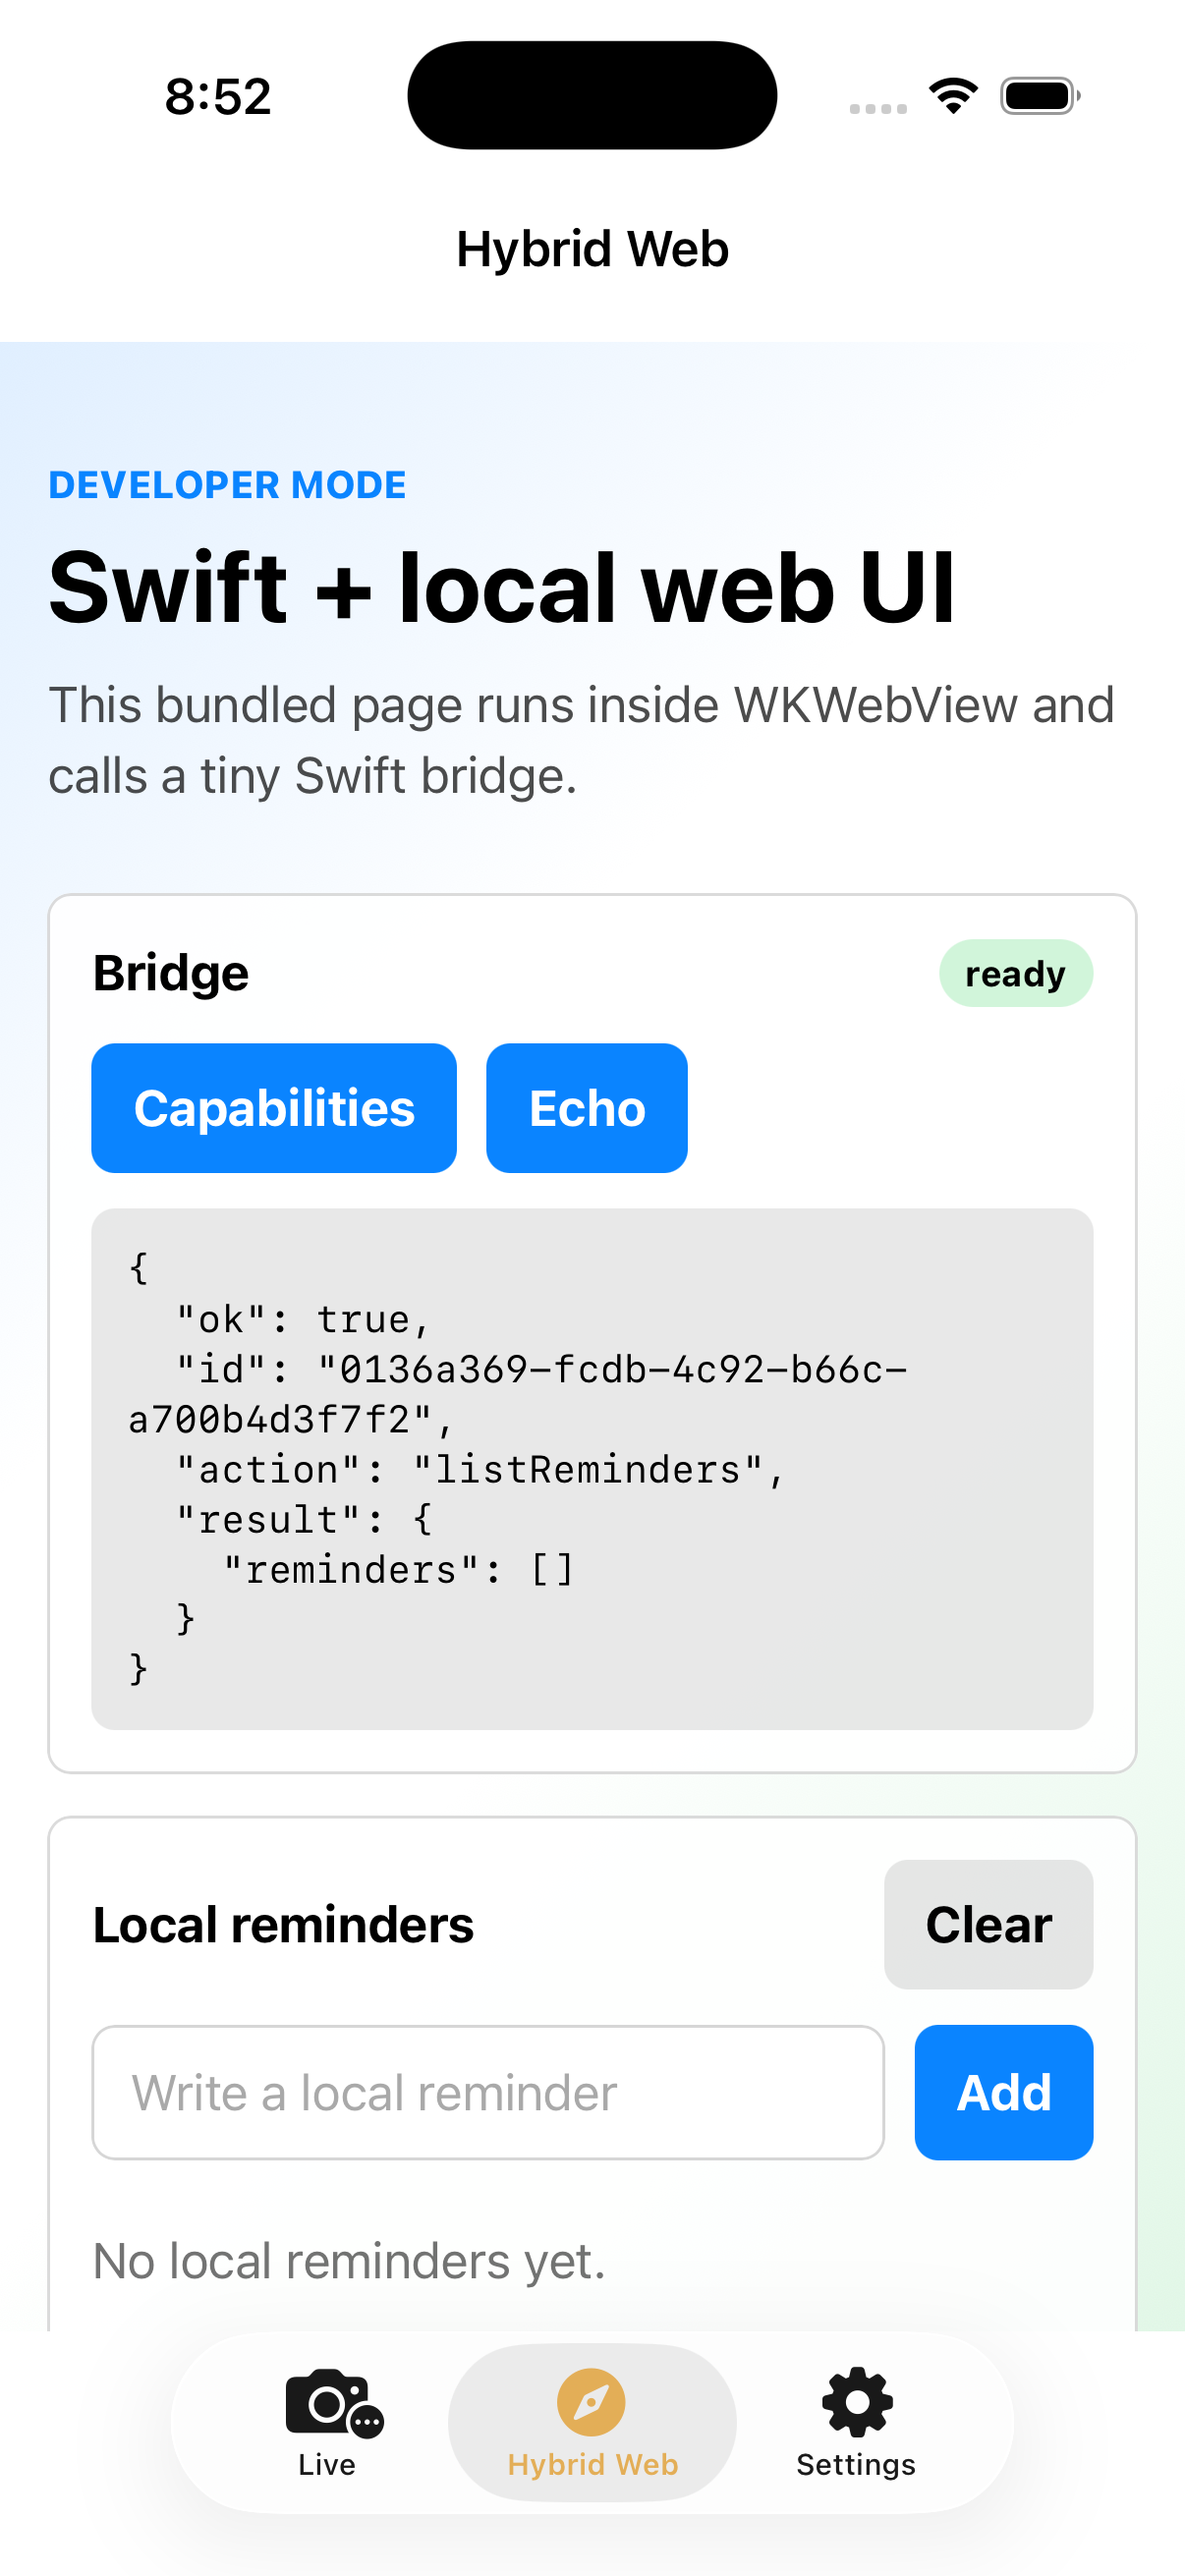
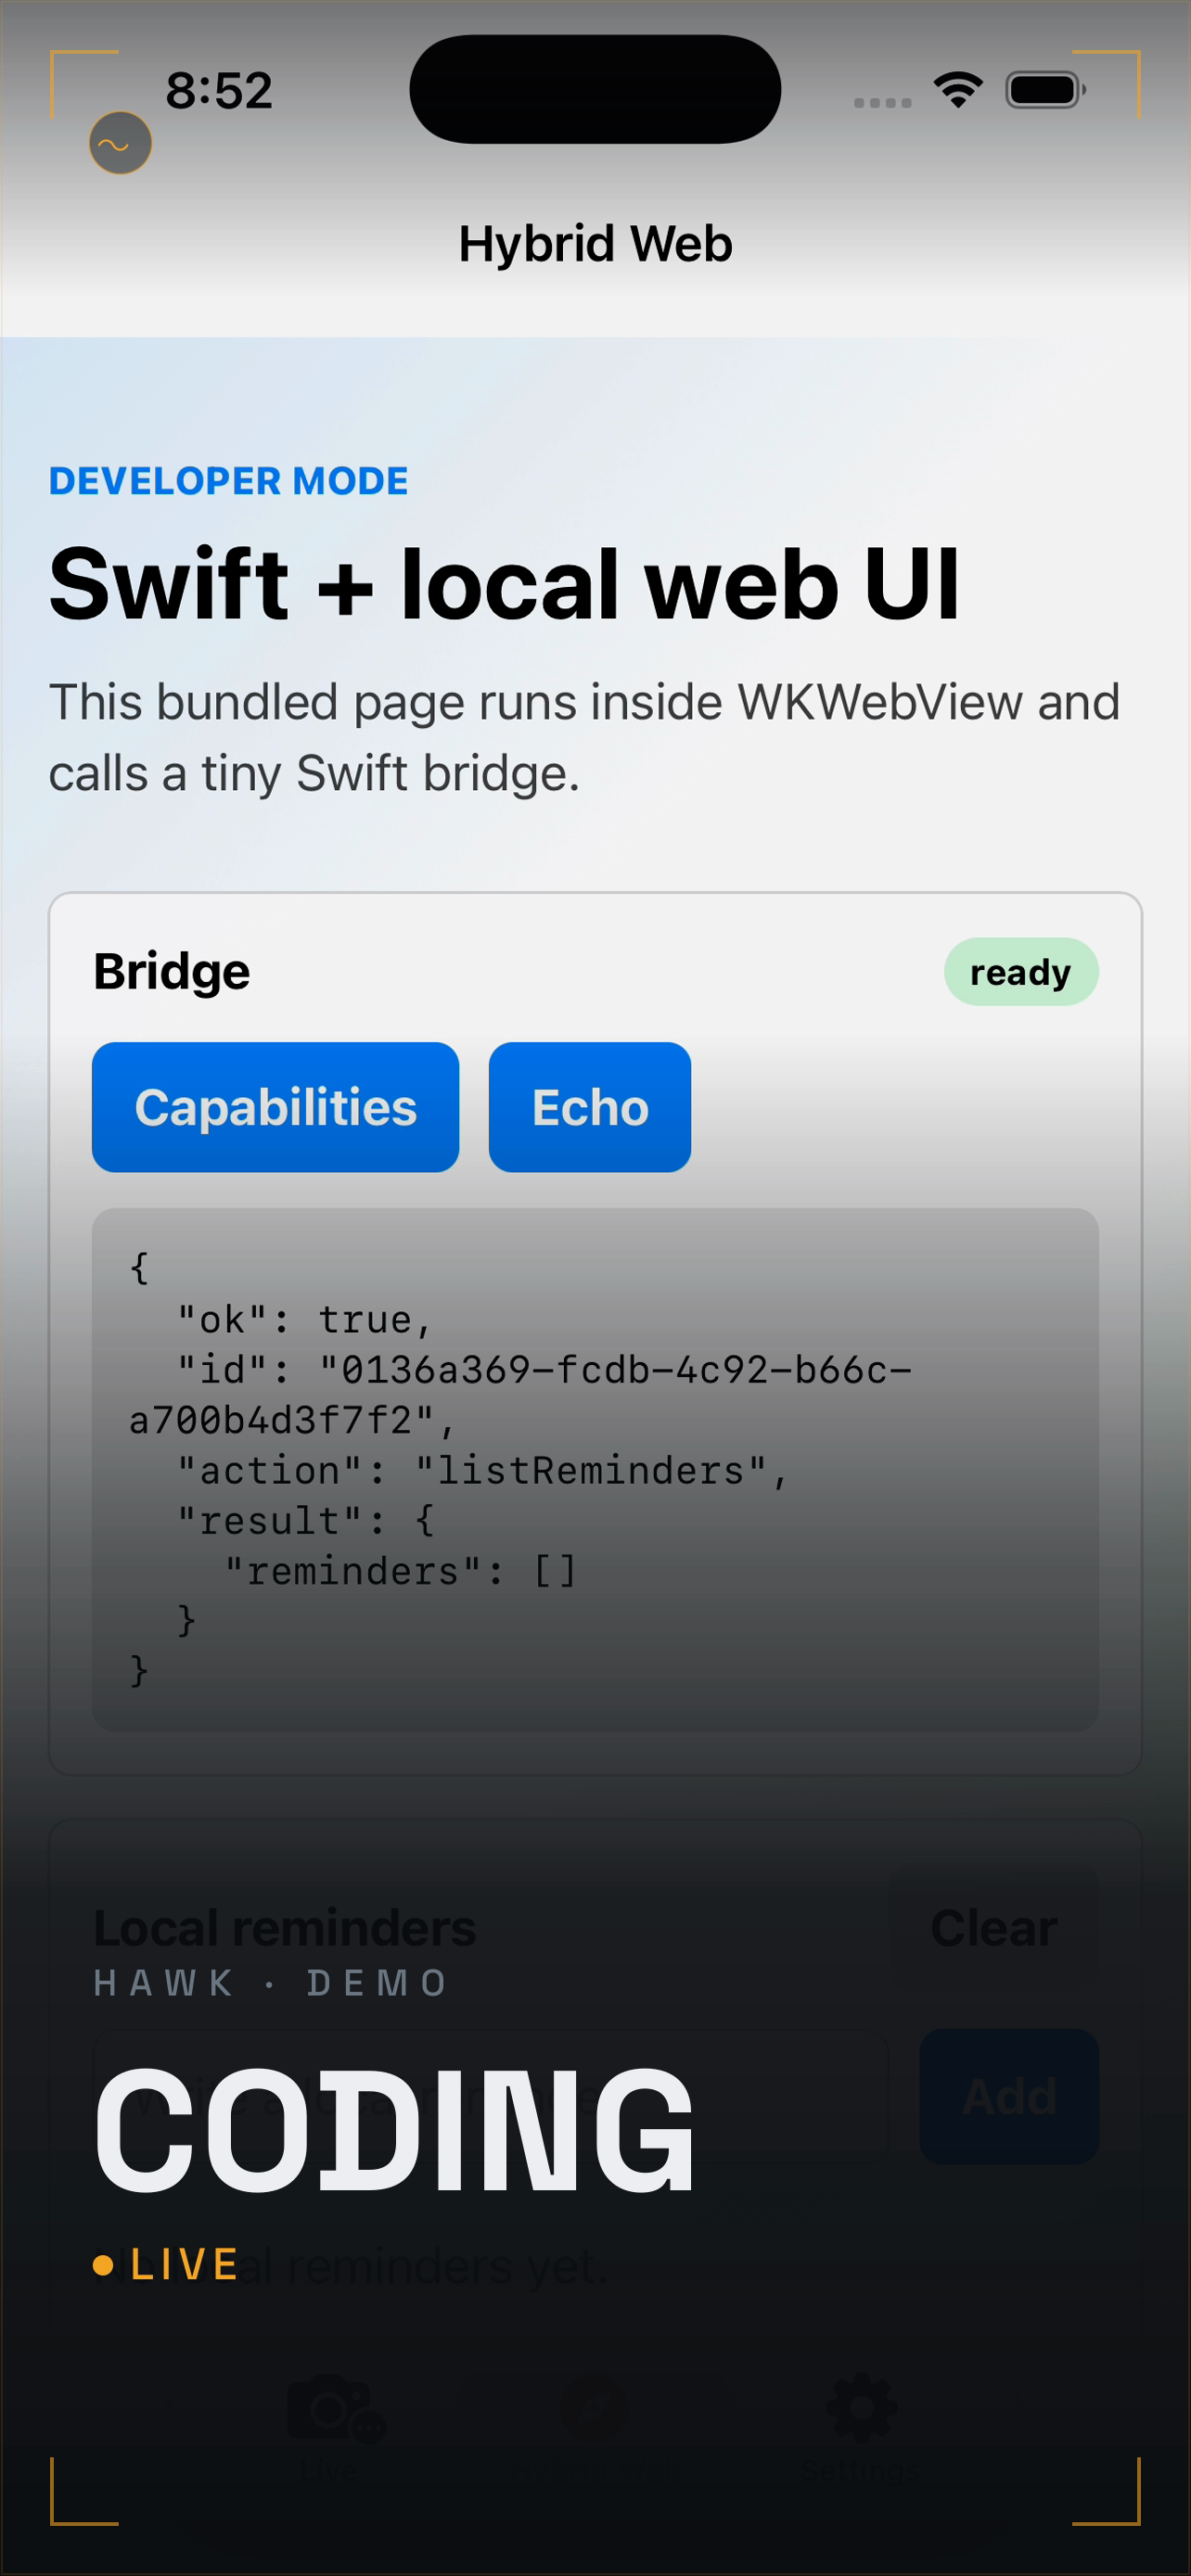
feat(website): add demo media assets
Add the RunPod-deployed demo posters and recordings so the website media referenced by index.html is tracked in GitHub.

Validation:
- verified every demo media reference in website/index.html exists under website/assets

diff --git a/website/README.md b/website/README.md
@@ -8,7 +8,7 @@ A single self-contained marketing/landing page for **Hawk**, the ambient AI agen
 ```
 website/
 ├── index.html          # the entire site (HTML + inline CSS + vanilla JS)
-├── assets/             # owl app icon + the Coding-demo screen recording
+├── assets/             # app icon, demo posters, and demo recordings
 ├── deploy_modal.py     # serve the static site on Modal
 └── preview/            # per-section screenshots (PR review aids)
 ```
@@ -20,13 +20,6 @@ cd website && python3 -m http.server 8011
 # open http://localhost:8011
 ```
 
-## Production routing
-
-- `www.hawky.live` serves this public homepage.
-- `hawky.live` redirects to `www.hawky.live`.
-- `app.hawky.live` serves the authenticated Hawk app.
-- `admin.hawky.live` serves the admin portal.
-
 ## Deploy (Modal)
 
 ```bash
@@ -37,8 +30,7 @@ cd website && modal deploy deploy_modal.py
 ## Notes
 
 - Brand name `Hawk` is kept easy to swap (reserved name, may change).
-- Placeholders pending real values: GitHub/citation URL (`github.com/hawk-agent/hawk`)
-  and install URL (`hawk.sh`). The public iOS URL is `https://ios.hawky.live/`;
-  update its redirect target from the deployment repo when the TestFlight invite changes.
-- Five of the six demo cells are styled placeholders (each has a `data-demo` hook);
-  the Coding cell plays a real recording. Drop clips in to light up the rest.
+- Public GitHub/citation links should point at `github.com/hao-ai-lab/hawky`.
+- The install URL and TestFlight invite can still be swapped at deployment time.
+- All six demo cells play real recordings (Cocktail, Safety, Reminder, Silent, Coding,
+  Visual Memory — each has a `data-demo` hook and a tap-to-play control).